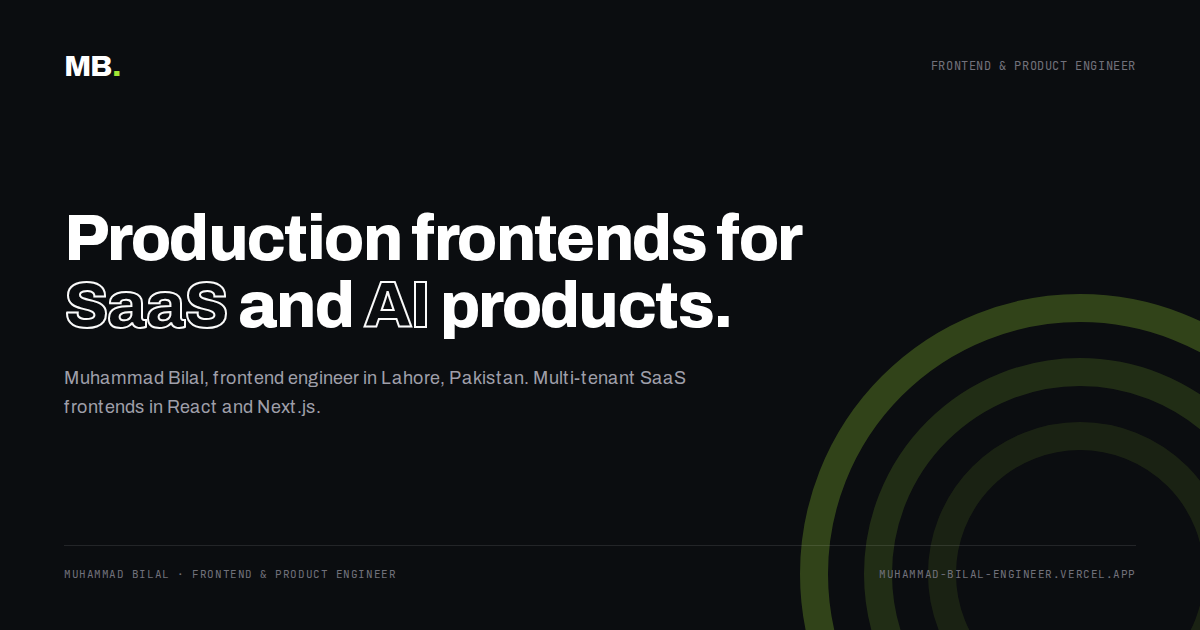
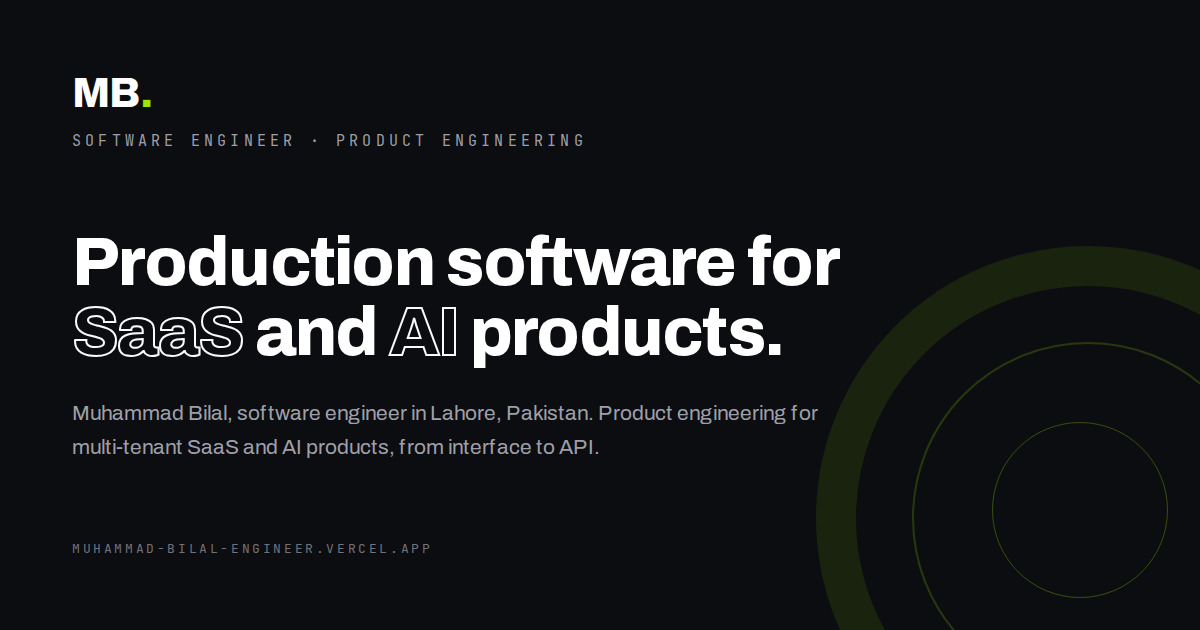
Rebrand: Software Engineer primary title, product engineering and systems thinking keywords

diff --git a/components/Hero.jsx b/components/Hero.jsx
@@ -2,7 +2,7 @@ import { ArrowDownRight, ArrowUpRight } from 'lucide-react';
 import BookCallButton from './BookCallButton';
 
 const tickerItems = [
-  'Multi-tenant SaaS frontends',
+  'Multi-tenant SaaS products',
   'React · Next.js · Tailwind CSS',
   'Chrome extensions & data tooling',
   'Dashboards, roles & permissions',
@@ -28,7 +28,7 @@ export default function Hero() {
         <div className="animate-fade-up inline-flex items-center gap-2 rounded-full border border-zinc-300 bg-white/70 px-4 py-1.5 dark:border-white/15 dark:bg-white/5">
           <span className="animate-pulse-dot h-2 w-2 rounded-full bg-lime-400" />
           <span className="font-mono text-xs text-zinc-600 dark:text-zinc-300">
-            Frontend Engineer · Product Engineering
+            Software Engineer · Product Engineering
           </span>
         </div>
 
@@ -36,7 +36,7 @@ export default function Hero() {
           className="animate-fade-up mt-8 max-w-5xl font-sans text-[2.9rem] leading-[1.02] font-extrabold tracking-tight text-zinc-950 md:text-7xl lg:text-[5.4rem] dark:text-white"
           style={{ animationDelay: '120ms' }}
         >
-          Production frontends for <span className="text-outline">SaaS</span> and{' '}
+          Production software for <span className="text-outline">SaaS</span> and{' '}
           <span className="text-outline">AI</span> products.
         </h1>
 
@@ -44,9 +44,10 @@ export default function Hero() {
           className="animate-fade-up mt-8 max-w-xl font-sans text-lg leading-relaxed text-zinc-600 dark:text-zinc-400"
           style={{ animationDelay: '240ms' }}
         >
-          Muhammad Bilal, frontend engineer building scalable, multi-tenant SaaS
-          systems for founders and product teams. Frontend has moved from classic
-          screens to agentic development: AI in the loop, without losing the craft.
+          Muhammad Bilal, software engineer building scalable, multi-tenant SaaS
+          systems for founders and product teams. Systems thinking and product
+          engineering guide the work: frontend depth, backend range, and AI in
+          the loop, without losing the craft.
         </p>
 
         <div className="animate-fade-up mt-10 flex flex-wrap gap-3" style={{ animationDelay: '360ms' }}>

diff --git a/app/layout.js b/app/layout.js
@@ -26,14 +26,14 @@ const instrumentSerif = Instrument_Serif({
 });
 
 export const metadata = {
-  title: 'Muhammad Bilal - Frontend Engineer',
+  title: 'Muhammad Bilal - Software Engineer',
   description:
-    'Muhammad Bilal, frontend engineer in Lahore, Pakistan. Multi-tenant SaaS frontends in React and Next.js.',
+    'Muhammad Bilal, software engineer in Lahore, Pakistan. Product engineering for multi-tenant SaaS and AI products, from interface to API.',
   metadataBase: new URL('https://muhammad-bilal-engineer.vercel.app'),
   openGraph: {
-    title: 'Muhammad Bilal - Frontend Engineer',
+    title: 'Muhammad Bilal - Software Engineer',
     description:
-      'Muhammad Bilal, frontend engineer in Lahore, Pakistan. Multi-tenant SaaS frontends in React and Next.js.',
+      'Muhammad Bilal, software engineer in Lahore, Pakistan. Product engineering for multi-tenant SaaS and AI products, from interface to API.',
     url: '/',
     siteName: 'Muhammad Bilal',
     images: [
@@ -41,16 +41,16 @@ export const metadata = {
         url: '/og-image.png',
         width: 1200,
         height: 630,
-        alt: 'Muhammad Bilal - Frontend Engineer',
+        alt: 'Muhammad Bilal - Software Engineer',
       },
     ],
     type: 'website',
   },
   twitter: {
     card: 'summary_large_image',
-    title: 'Muhammad Bilal - Frontend Engineer',
+    title: 'Muhammad Bilal - Software Engineer',
     description:
-      'Muhammad Bilal, frontend engineer in Lahore, Pakistan. Multi-tenant SaaS frontends in React and Next.js.',
+      'Muhammad Bilal, software engineer in Lahore, Pakistan. Product engineering for multi-tenant SaaS and AI products, from interface to API.',
     images: ['/og-image.png'],
   },
 };

diff --git a/components/About.jsx b/components/About.jsx
@@ -64,12 +64,13 @@ export default function About() {
                     : who it helps, what it solves, and what the business actually needs.
                   </p>
                   <p className="text-[15px] leading-relaxed text-zinc-600 dark:text-zinc-400 mt-8">
-                    Frontend engineer based in Lahore, with two years of production experience
-                    in React, Next.js, and Tailwind CSS. Day-to-day work: multi-tenant SaaS
+                    Software engineer based in Lahore, with two years of production experience
+                    in React, Next.js, and Tailwind CSS, and backend work in ASP.NET Core.
+                    Day-to-day work: multi-tenant SaaS
                     dashboards, data-heavy interfaces, and browser extensions. Work starts
                     before implementation: R&amp;D, feature design, flow discussions, and
                     business requirements. Agentic AI tools are part of the process now;
-                    classic frontend alone no longer cuts it.
+                    systems thinking across the whole product, because classic frontend alone no longer cuts it.
                   </p>
                 </div>
               </div>

diff --git a/components/Expertise.jsx b/components/Expertise.jsx
@@ -17,7 +17,7 @@ const cards = [
   {
     n: '03',
     tag: 'INTERFACE LAYER',
-    title: 'Classic and Agentic Frontend development',
+    title: 'Classic and agentic development',
     text: 'Clean components, sane state, accessible interfaces that stay fast. Classic craft where it counts, agentic AI where it helps. Simple screens and loading spinners no longer cut it.',
   },
   {

diff --git a/components/Navbar.jsx b/components/Navbar.jsx
@@ -24,7 +24,7 @@ export default function Navbar() {
             MB.
           </span>
           <span className="font-mono text-xs text-zinc-500 dark:text-zinc-400">
-            / Frontend Engineer
+            / Software Engineer
           </span>
         </a>
 

diff --git a/components/Skills.jsx b/components/Skills.jsx
@@ -33,7 +33,7 @@ function UnleashIcon() {
 
 const groups = [
   {
-    label: 'Frontend core',
+    label: 'Core stack',
     skills: [
       { name: 'JavaScript', slug: 'javascript' },
       { name: 'React.js', slug: 'react' },
